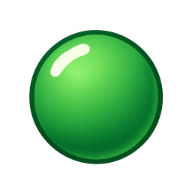
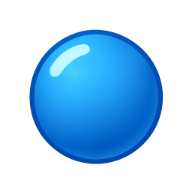
Update game name and color scheme and metadata

diff --git a/src/components/auth/steps/WalletConnectionStep.tsx b/src/components/auth/steps/WalletConnectionStep.tsx
@@ -3,6 +3,7 @@
 import React from "react";
 import { useAccount } from "wagmi";
 import { useAbstractLogin } from "@/hooks/use-abstract-login";
+import { PRIMARY_COLOR, PRIMARY_HOVER } from "@/lib/colors";
 import LoadingStep from "../LoadingStep";
 
 interface WalletConnectionStepProps {
@@ -45,9 +46,9 @@ export const WalletConnectionStep: React.FC<WalletConnectionStepProps> = ({
         <button
           onClick={() => login()}
           className="w-full text-white font-medium text-sm py-2 px-4 rounded-lg transition-colors duration-200 shadow-sm hover:shadow-md"
-          style={{ backgroundColor: '#00ca51', borderColor: '#00ca51', cursor: 'pointer' }}
-          onMouseEnter={(e) => e.currentTarget.style.backgroundColor = '#00b847'}
-          onMouseLeave={(e) => e.currentTarget.style.backgroundColor = '#00ca51'}
+          style={{ backgroundColor: PRIMARY_COLOR, borderColor: PRIMARY_COLOR, cursor: 'pointer' }}
+          onMouseEnter={(e) => e.currentTarget.style.backgroundColor = PRIMARY_HOVER}
+          onMouseLeave={(e) => e.currentTarget.style.backgroundColor = PRIMARY_COLOR}
         >
           Try Again
         </button>
@@ -56,7 +57,7 @@ export const WalletConnectionStep: React.FC<WalletConnectionStepProps> = ({
           target="_blank"
           rel="noopener noreferrer"
           className="text-xs hover:underline block"
-          style={{ color: '#00ca51' }}
+          style={{ color: PRIMARY_COLOR }}
         >
           Having trouble? Check if pop-ups are blocked
         </a>
@@ -75,9 +76,9 @@ export const WalletConnectionStep: React.FC<WalletConnectionStepProps> = ({
       <button
         onClick={() => login()}
         className="w-full text-white font-medium text-sm py-2 px-4 rounded-lg transition-colors duration-200 shadow-sm hover:shadow-md"
-        style={{ backgroundColor: '#00ca51', borderColor: '#00ca51', cursor: 'pointer' }}
-        onMouseEnter={(e) => e.currentTarget.style.backgroundColor = '#00b847'}
-        onMouseLeave={(e) => e.currentTarget.style.backgroundColor = '#00ca51'}
+        style={{ backgroundColor: PRIMARY_COLOR, borderColor: PRIMARY_COLOR, cursor: 'pointer' }}
+        onMouseEnter={(e) => e.currentTarget.style.backgroundColor = PRIMARY_HOVER}
+        onMouseLeave={(e) => e.currentTarget.style.backgroundColor = PRIMARY_COLOR}
       >
         Connect Abstract Global Wallet
       </button>

diff --git a/src/components/auth/SignInFlow.tsx b/src/components/auth/SignInFlow.tsx
@@ -7,6 +7,7 @@ import { useAbstractSession } from "@/hooks/use-abstract-session";
 import { useAbstractProfile } from "@/hooks/use-abstract-profile";
 import { PlayerAvatar } from "@/components/ui/PlayerAvatar";
 import { TooltipProvider } from "@/components/ui/tooltip";
+import { PRIMARY_COLOR } from "@/lib/colors";
 import { WalletConnectionStep } from "./steps/WalletConnectionStep";
 import { SiweAuthStep } from "./steps/SiweAuthStep";
 import { SessionKeyStep } from "./steps/SessionKeyStep";
@@ -86,16 +87,21 @@ export const SignInFlow: React.FC<SignInFlowProps> = ({ onComplete }) => {
           <div key={step.key} className="flex items-center">
             <div
               className={`w-2 h-2 rounded-full transition-all duration-300 ${index <= currentStepIndex
-                ? 'bg-[#00ca51] shadow-sm shadow-[#00ca51]/50'
+                ? 'shadow-sm'
                 : 'bg-neutral-600'
                 }`}
+              style={index <= currentStepIndex ? {
+                backgroundColor: PRIMARY_COLOR,
+                boxShadow: `0 1px 2px 0 ${PRIMARY_COLOR}80`
+              } : {}}
             />
             {index < steps.length - 1 && (
               <div
                 className={`w-6 h-px mx-1.5 transition-all duration-300 opacity-40 ${index < currentStepIndex
-                  ? 'bg-[#00ca51]'
+                  ? ''
                   : 'bg-neutral-600'
                   }`}
+                style={index < currentStepIndex ? { backgroundColor: PRIMARY_COLOR } : {}}
               />
             )}
           </div>
@@ -142,7 +148,7 @@ export const SignInFlow: React.FC<SignInFlowProps> = ({ onComplete }) => {
       case SignInStep.COMPLETED:
         return (
           <div className="text-center space-y-4">
-            <h3 className="text-xl font-semibold text-[#00ca51]">
+            <h3 className="text-xl font-semibold" style={{ color: PRIMARY_COLOR }}>
               You&rsquo;re all set!
             </h3>
             <p className="text-neutral-400 text-sm">

diff --git a/src/components/Header.tsx b/src/components/Header.tsx
@@ -7,6 +7,7 @@ import SignInModal from "./auth/SignInModal";
 import { useAccount } from "wagmi";
 import { Button } from "@/components/ui/button";
 import { WalletDisplay } from "./WalletDisplay";
+import { PRIMARY_COLOR, PRIMARY_HOVER } from "@/lib/colors";
 
 const Header = () => {
   const { address } = useAccount();
@@ -23,13 +24,13 @@ const Header = () => {
         <div className="flex items-center gap-6">
           <Link href="/">
             <Image
-              src="/green-ball.png"
-              alt="Plinko"
-              width={40}
+              src="/blue-balls-text-logo.png"
+              alt="Blue Balls"
+              width={140}
               height={40}
               className="transition-transform duration-300 hover:scale-110"
               style={{
-                filter: "drop-shadow(0 0 8px rgba(0, 202, 81, 0.4))"
+                filter: `drop-shadow(0 0 8px ${PRIMARY_COLOR}66)`
               }}
             />
           </Link>
@@ -41,7 +42,10 @@ const Header = () => {
             <SignInModal>
               <Button
                 variant="default"
-                className="bg-[#00ca51] hover:bg-[#00b048] text-white font-bold px-6 rounded-md shadow-xl hover:shadow-2xl transition-all duration-200 border-0 text-sm group cursor-pointer hover:cursor-pointer h-[36px]"
+                style={{ backgroundColor: PRIMARY_COLOR }}
+                onMouseEnter={(e) => e.currentTarget.style.backgroundColor = PRIMARY_HOVER}
+                onMouseLeave={(e) => e.currentTarget.style.backgroundColor = PRIMARY_COLOR}
+                className="text-white font-bold px-6 rounded-md shadow-xl hover:shadow-2xl transition-all duration-200 border-0 text-sm group cursor-pointer hover:cursor-pointer h-[36px]"
               >
                 Connect Wallet
                 <Image

diff --git a/src/lib/colors.ts b/src/lib/colors.ts
@@ -1,0 +1,29 @@
+/**
+ * Centralized color constants for the application
+ * This file contains all the primary brand colors used throughout the app
+ */
+
+export const COLORS = {
+  primary: '#1475E1',
+  primaryHover: '#1165C7', // Slightly darker for hover states
+  primaryLight: '#4A90E6', // Lighter variant
+  primaryDark: '#0F5BA8', // Darker variant
+} as const;
+
+// Helper function to generate color variations
+export const generateColorVariations = (baseColor: string) => {
+  // For now, returning predefined variations
+  // In the future, this could use a color manipulation library
+  return {
+    base: baseColor,
+    hover: baseColor === COLORS.primary ? COLORS.primaryHover : baseColor,
+    light: baseColor === COLORS.primary ? COLORS.primaryLight : baseColor,
+    dark: baseColor === COLORS.primary ? COLORS.primaryDark : baseColor,
+  };
+};
+
+// Export individual colors for easier imports
+export const PRIMARY_COLOR = COLORS.primary;
+export const PRIMARY_HOVER = COLORS.primaryHover;
+export const PRIMARY_LIGHT = COLORS.primaryLight;
+export const PRIMARY_DARK = COLORS.primaryDark;

diff --git a/src/components/auth/LoadingStep.tsx b/src/components/auth/LoadingStep.tsx
@@ -28,8 +28,8 @@ const LoadingStep: React.FC<LoadingStepProps> = ({ loadingText }) => {
       <div className="flex flex-col items-center justify-center text-center py-2">
         <div className="animate-pulse-glow">
           <Image
-            src="/green-ball.png"
-            alt="Plinko Ball"
+            src="/blue-ball.png"
+            alt="Blue Ball"
             width={80}
             height={80}
             className="rounded-full"
